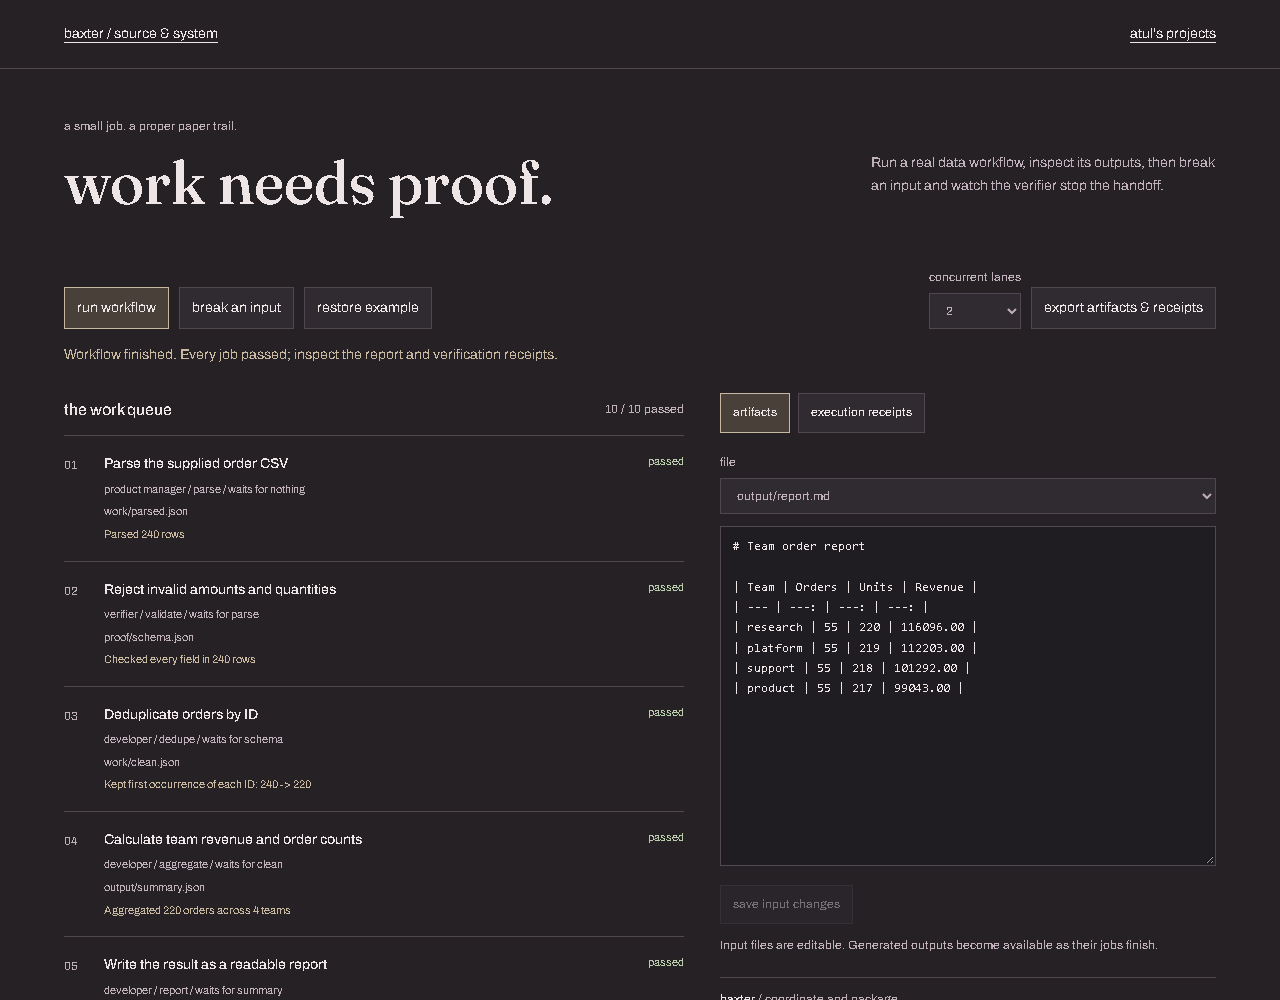
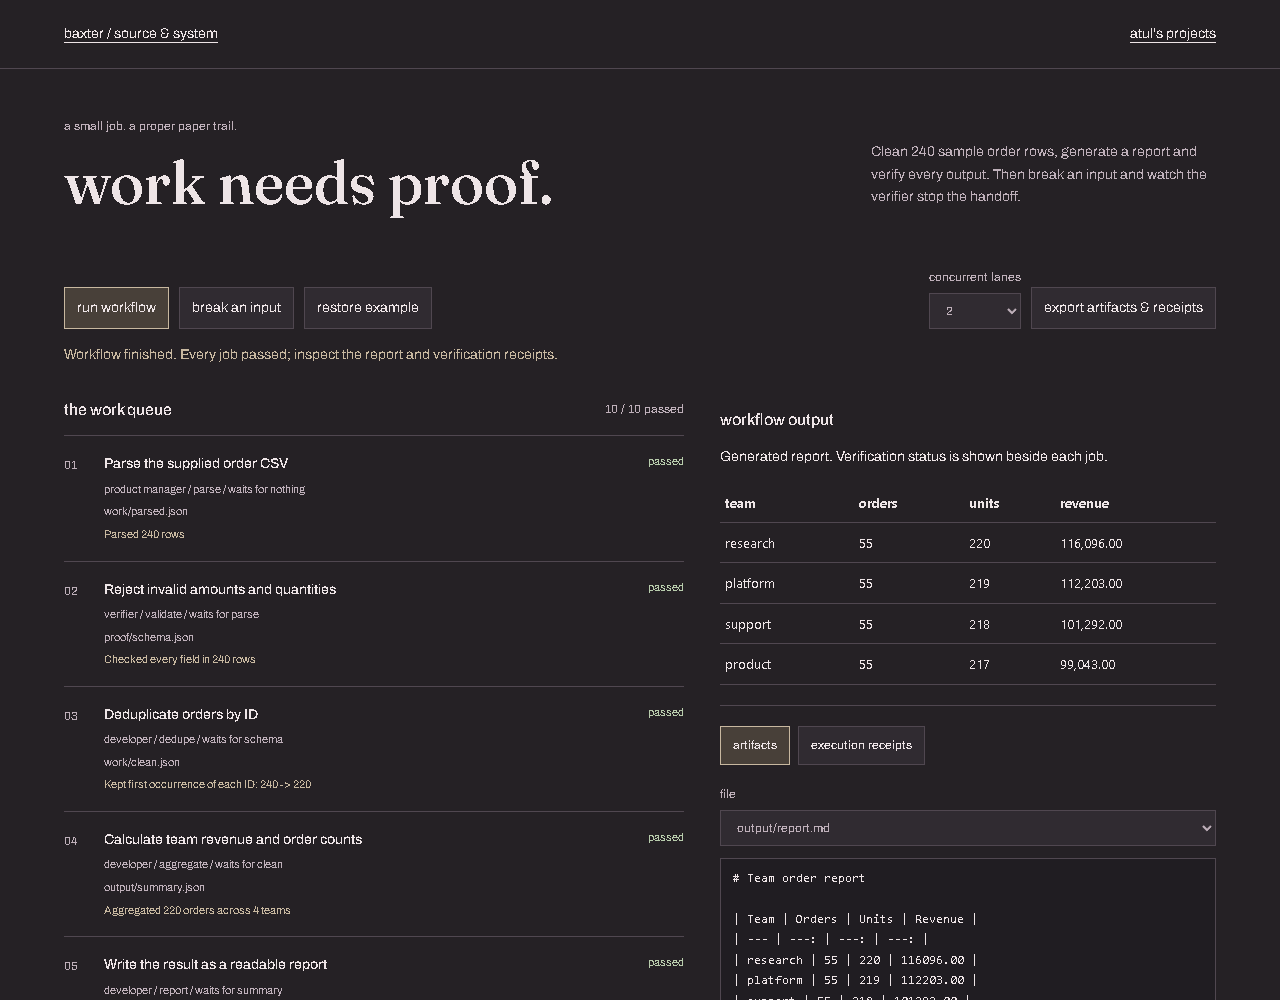
Present generated workflow outputs as a readable report

diff --git a/examples/portfolio/index.html b/examples/portfolio/index.html
@@ -21,8 +21,9 @@
                     <h1>work needs proof.</h1>
                 </div>
                 <p>
-                    Run a real data workflow, inspect its outputs, then break an
-                    input and watch the verifier stop the handoff.
+                    Clean 240 sample order rows, generate a report and verify
+                    every output. Then break an input and watch the verifier
+                    stop the handoff.
                 </p>
             </div>
             <div class="controls">
@@ -67,6 +68,14 @@
                     </details>
                 </section>
                 <aside>
+                    <section class="report-preview">
+                        <h2>workflow output</h2>
+                        <p id="output-summary" aria-live="polite">
+                            Run the workflow to clean the sample orders, build a
+                            report and verify the handoff.
+                        </p>
+                        <div id="report-preview" hidden></div>
+                    </section>
                     <div class="tabs">
                         <button id="show-artifacts" aria-pressed="true">
                             artifacts</button

diff --git a/examples/portfolio/style.css b/examples/portfolio/style.css
@@ -248,3 +248,43 @@ footer {
         gap: 8px;
     }
 }
+
+.report-preview {
+    padding-bottom: 20px;
+    border-bottom: 1px solid var(--line);
+    margin-bottom: 20px;
+}
+#report-preview {
+    white-space: pre-wrap;
+    overflow-wrap: anywhere;
+    font:
+        14px/1.65 "Segoe UI",
+        sans-serif;
+    max-height: 360px;
+    overflow: auto;
+}
+@media (max-width: 780px) {
+    .workspace > aside {
+        grid-row: 1;
+    }
+    .workspace > section {
+        grid-row: 2;
+    }
+}
+
+#report-preview {
+    white-space: normal;
+    max-height: none;
+}
+#report-preview table {
+    width: 100%;
+    border-collapse: collapse;
+    font-variant-numeric: tabular-nums;
+}
+#report-preview th,
+#report-preview td {
+    text-align: left;
+    padding: 9px 5px;
+    border-bottom: 1px solid var(--line);
+    font-size: 13px;
+}

diff --git a/tools/browser_audit.py b/tools/browser_audit.py
@@ -39,6 +39,7 @@ try:
         page.screenshot(path=str(ROOT/'examples/portfolio/preview.png'))
         page.set_viewport_size({'width':390,'height':844})
         assert page.evaluate('document.documentElement.scrollWidth<=innerWidth+1'),'mobile overflow'
+        assert page.locator('#report-preview table tbody tr').count()==4
         assert not errors,errors
         print('PASS: real worker execution, generated report, independent proof, failure gating, recovery and export')
         browser.close()
